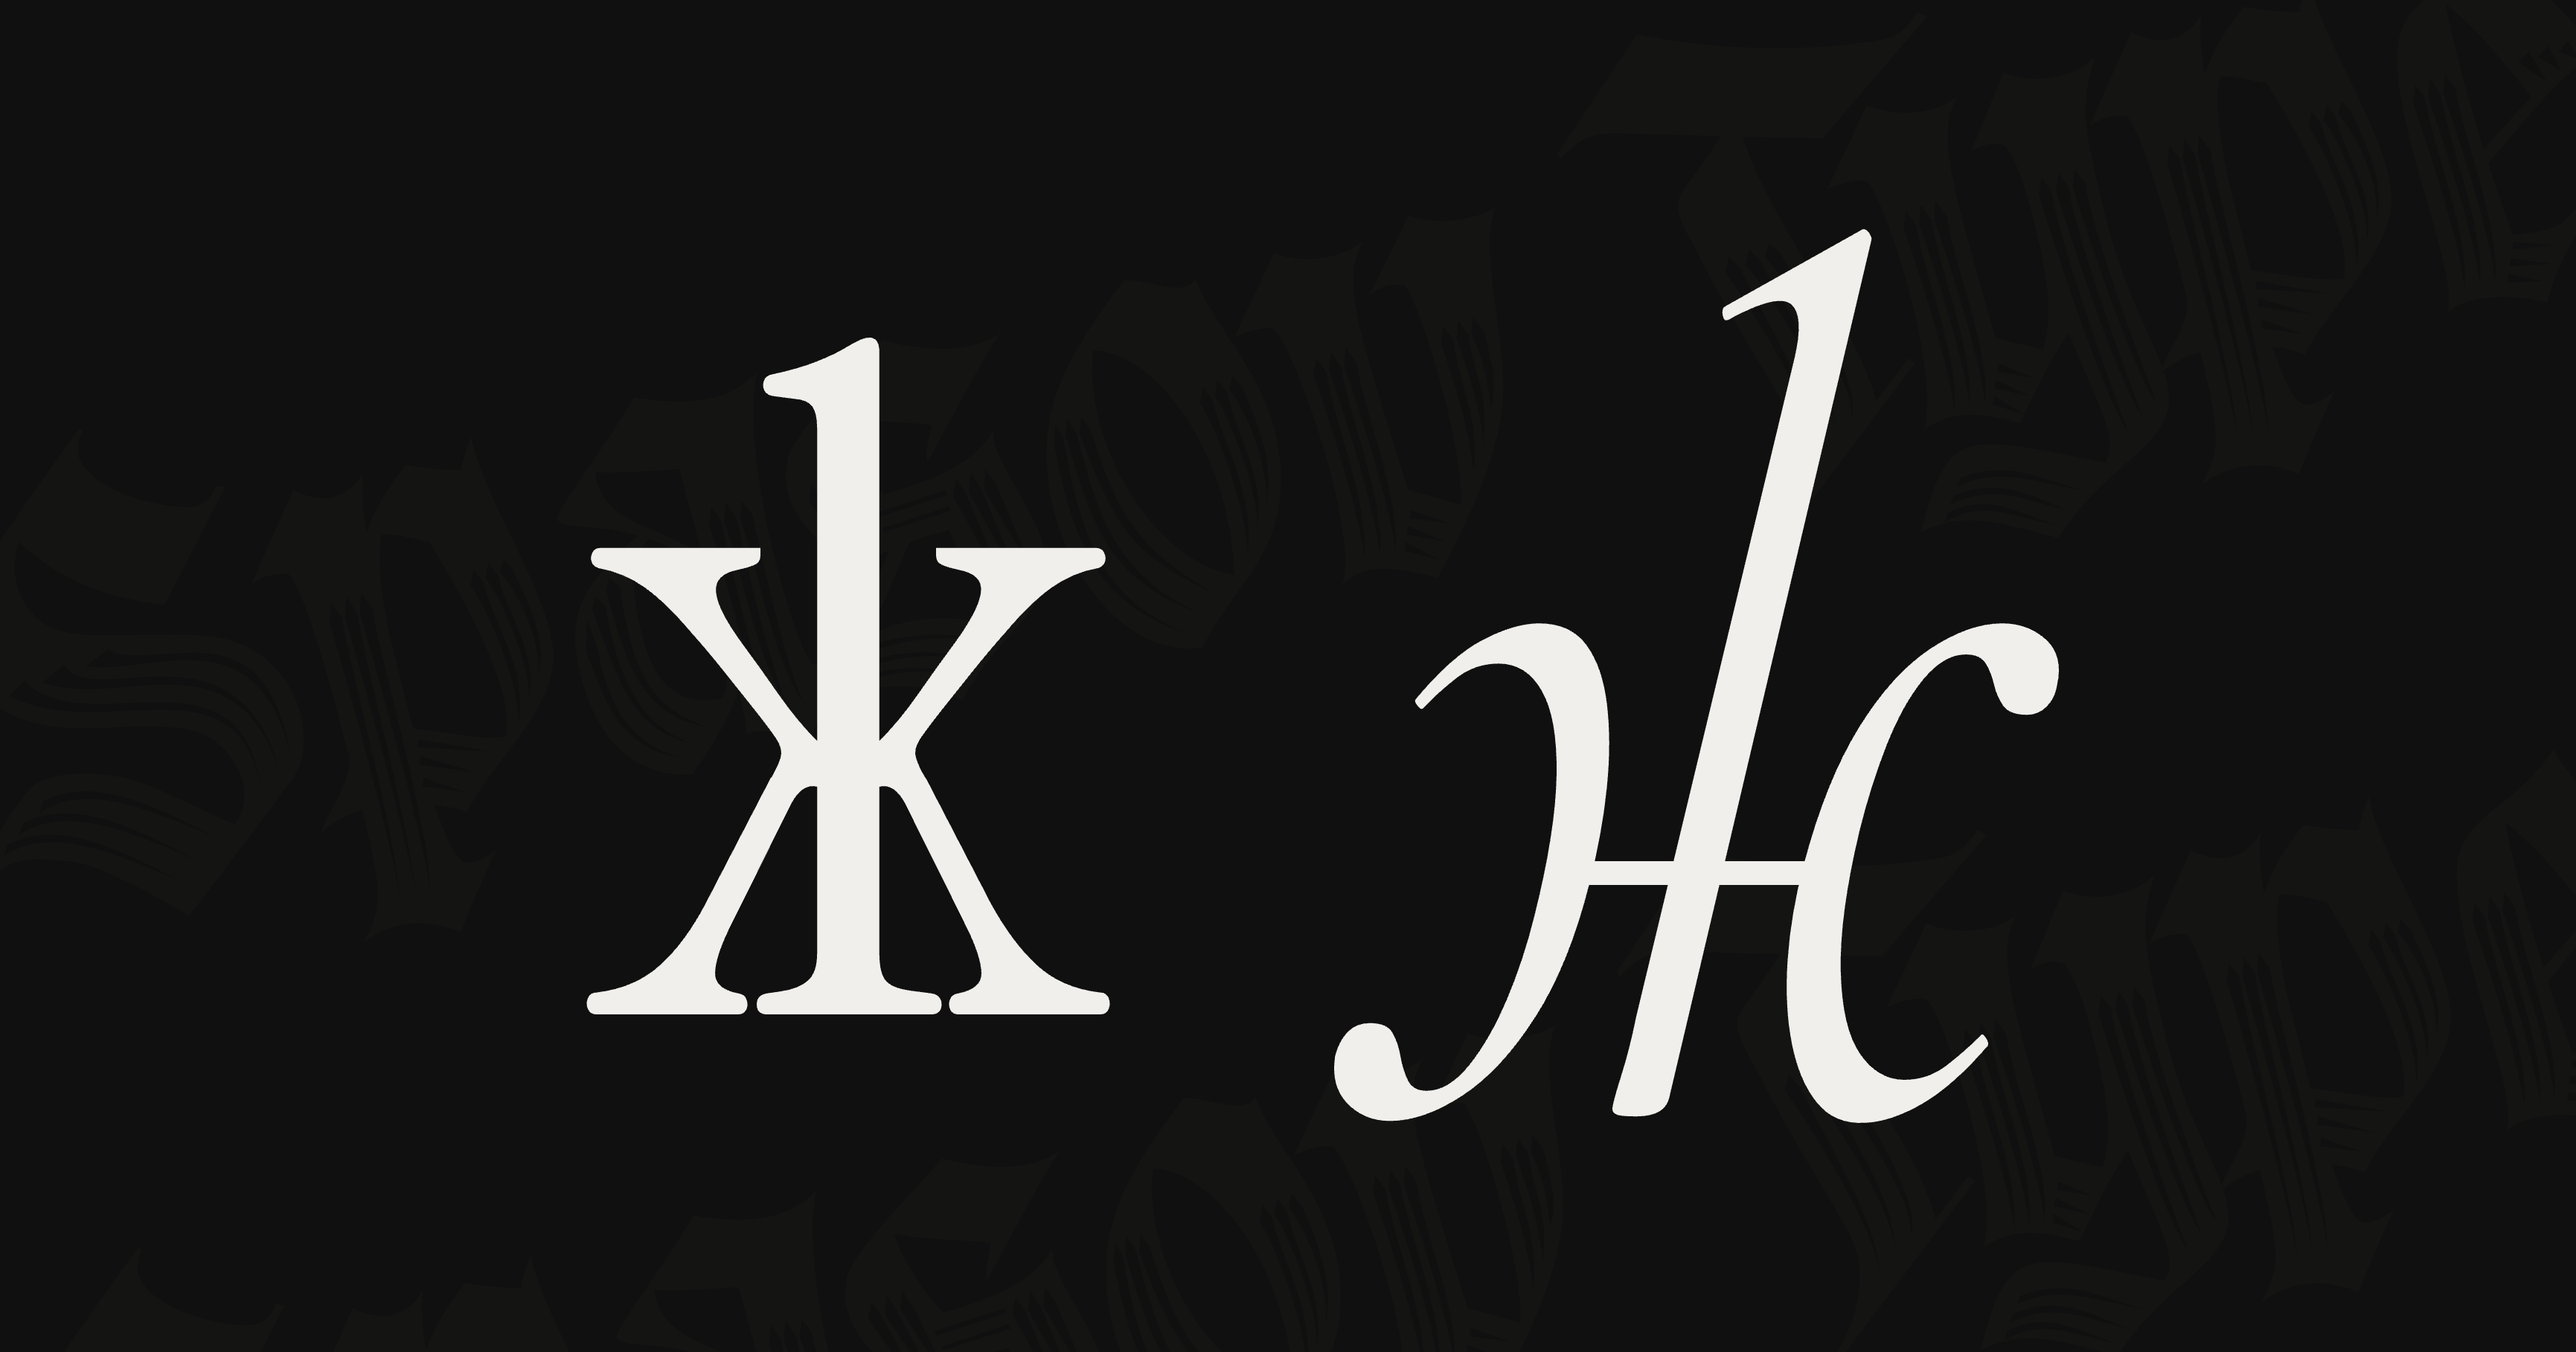
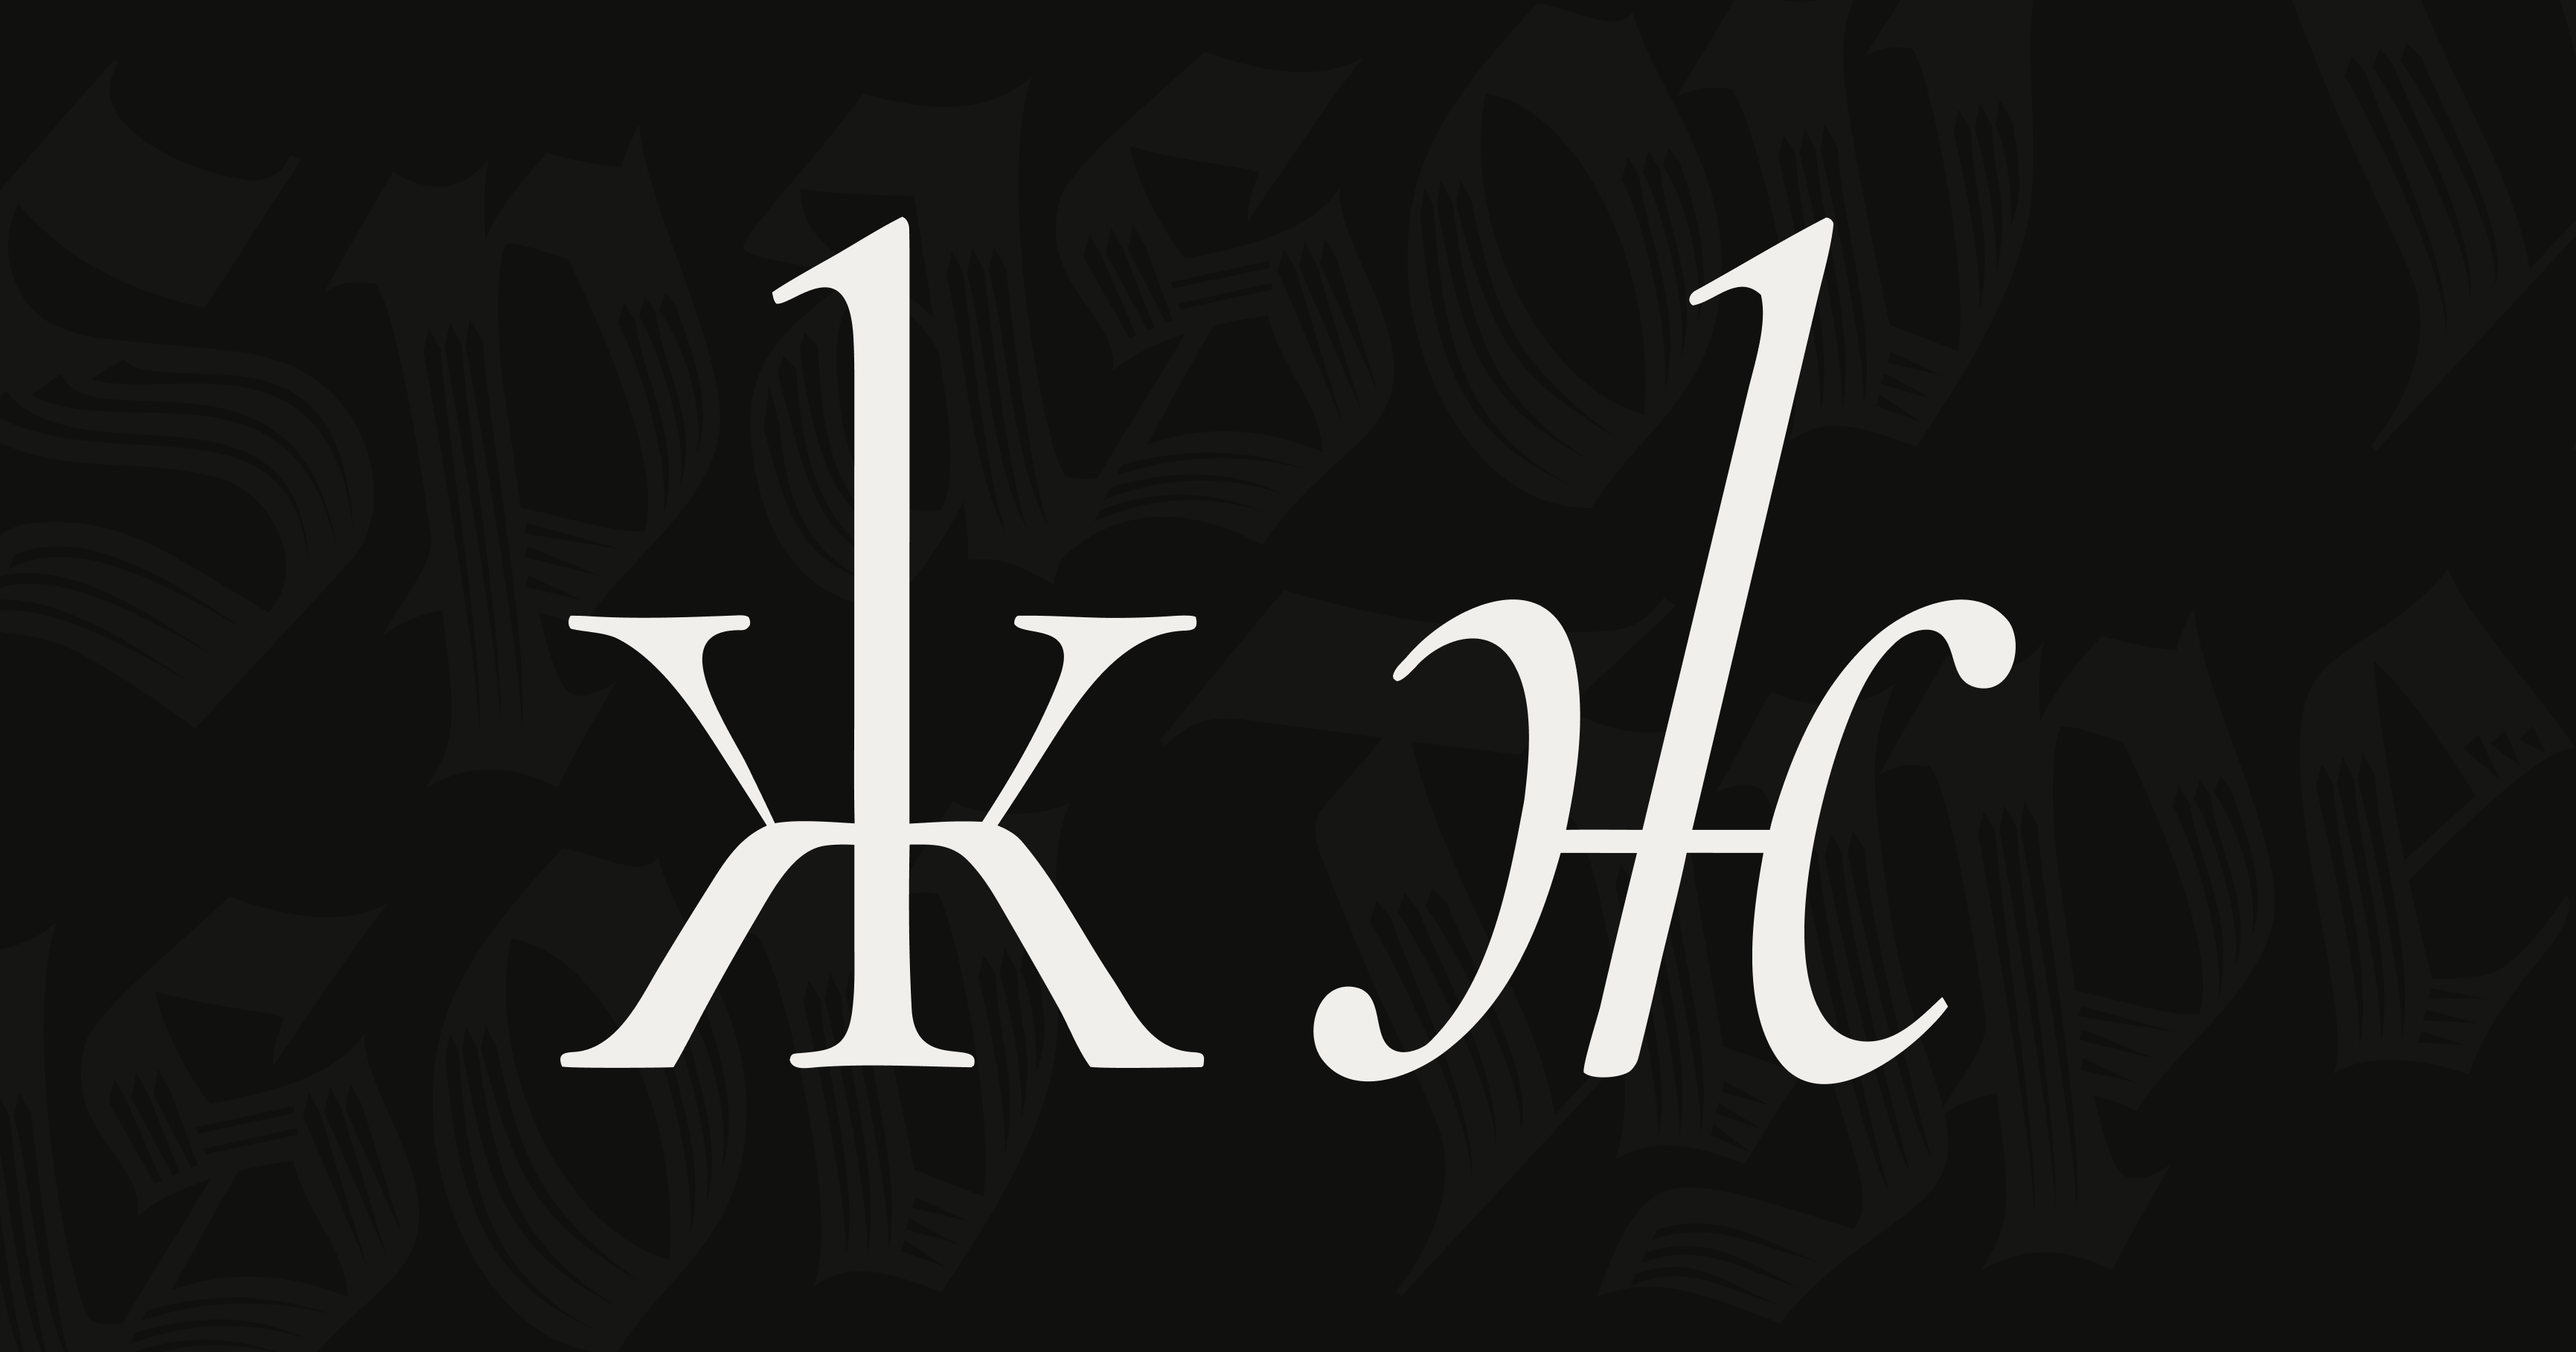
Replace sharing cover with supplied original artwork

Changed region(s): [[0.4991, 0.154, 0.8111, 0.8317], [0.2184, 0.154, 0.4679, 0.8009]]

diff --git a/website/index.html b/website/index.html
@@ -11,11 +11,11 @@
   <meta property="og:type" content="website">
   <meta property="og:title" content="Lirena | Instrument Serif with Bulgarian Cyrillic">
   <meta property="og:description" content="Lirena adds Bulgarian Cyrillic to Instrument Serif. Try Regular and Italic, explore the alphabet, and download the free open-source font family by Spasov Type.">
-  <meta property="og:image" content="https://spasovtype.com/assets/social-cover.png?v=1.0.0">
+  <meta property="og:image" content="https://spasovtype.com/assets/social-cover.png?v=1.0.0-cover2">
   <meta property="og:image:width" content="3462"><meta property="og:image:height" content="1818">
   <meta property="og:image:alt" content="Lirena — Regular and Italic Bulgarian ж. Cyrillic adaptation by Spasov Type">
   <meta name="robots" content="index, follow, max-image-preview:large">
-  <meta name="twitter:image" content="https://spasovtype.com/assets/social-cover.png?v=1.0.0">
+  <meta name="twitter:image" content="https://spasovtype.com/assets/social-cover.png?v=1.0.0-cover2">
   <meta name="twitter:card" content="summary_large_image">
   <meta name="twitter:title" content="Lirena | Instrument Serif with Bulgarian Cyrillic">
   <meta name="twitter:description" content="Lirena adds Bulgarian Cyrillic to Instrument Serif. Try Regular and Italic, explore the alphabet, and download the free open-source font family by Spasov Type.">
